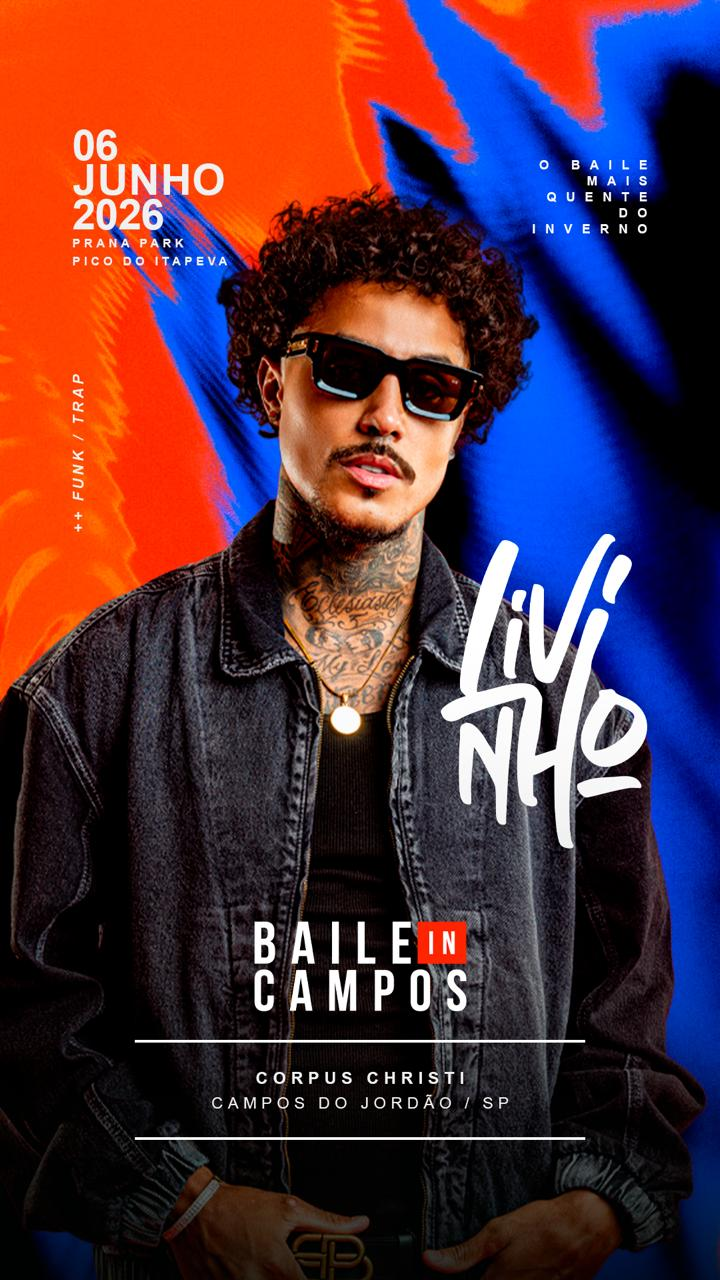
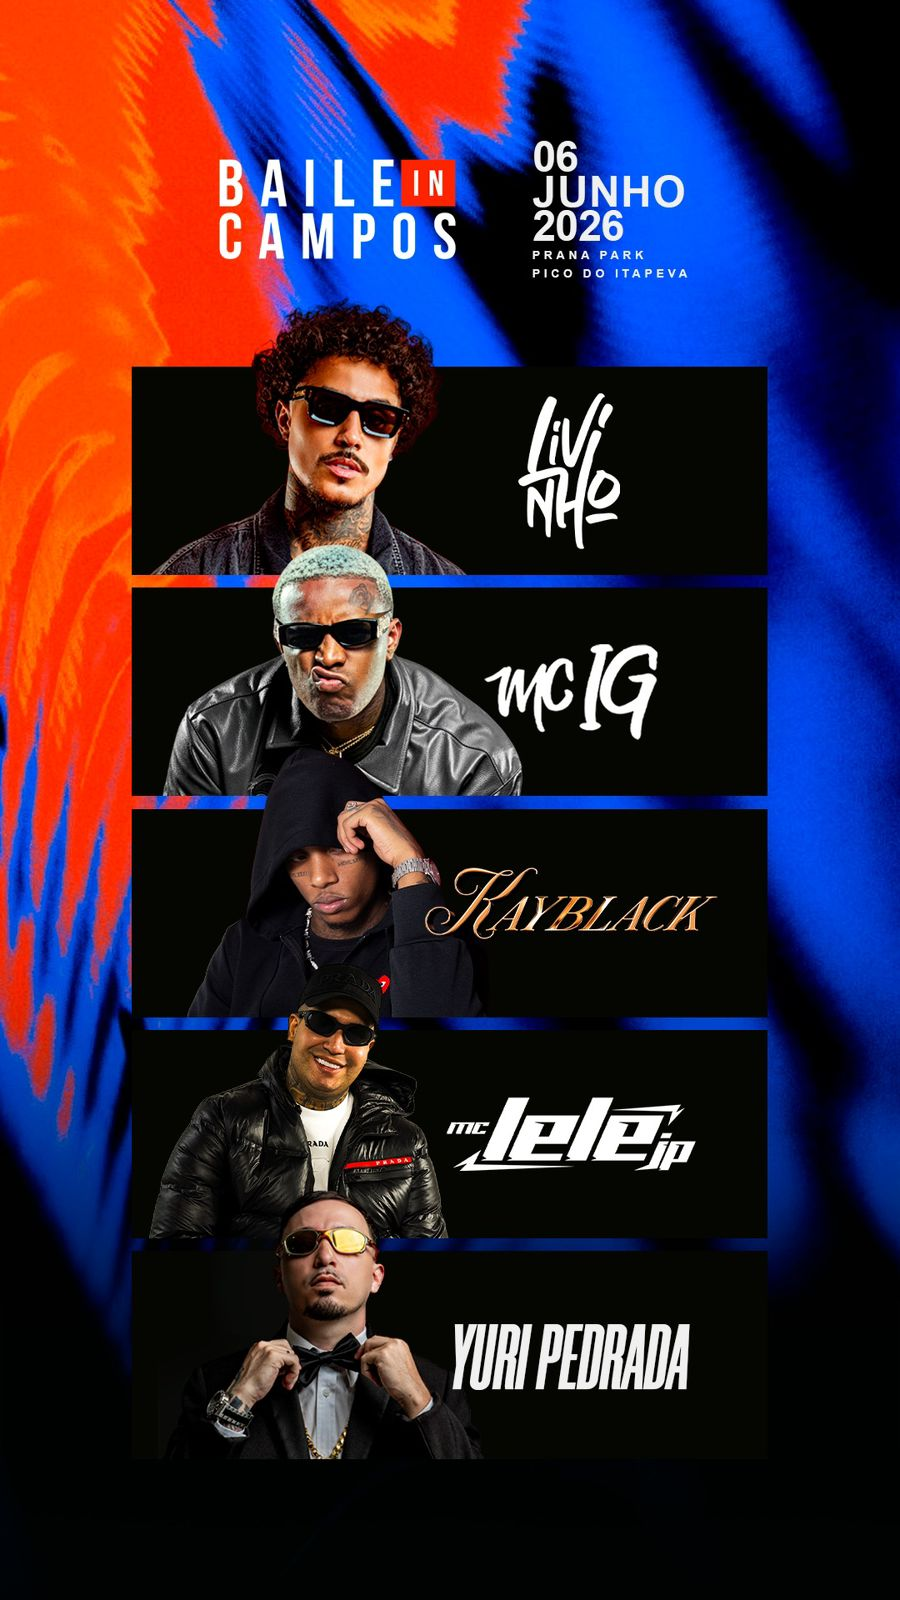
atualiazações festa CDJ

diff --git a/index.html b/index.html
@@ -50,7 +50,7 @@
   </div>
 </section>
 
-<!-- CARROSSEL FESTAS -->
+<!-- CARROSSEL FESTAS 
 <section class="eventos destaque-carrossel">
 
   <h2>🔥 FESTAS - LITORAL NORTE 🔥</h2>
@@ -97,6 +97,7 @@
 
   </div>
 </section>
+      -->
 
 <!-- CARROSSEL FERIADO CAMPOS -->
 <section class="eventos destaque-carrossel">
@@ -266,8 +267,8 @@
       <div class="card" onclick="toggleCard(this)">
         <img src="images/campos/festival1.png">
         <div class="info">
-          <p class="data">05.06.2026</p>
-          <h3>Beef Tour + Baile do Presidente</h3>
+          <p class="data">05.06.2026 | 06.06.2026</p>
+          <h3>Baile do Presidente</h3>
           <p class="local">Tennis Club</p>
         </div>
         <div class="acoes-card">
@@ -276,18 +277,7 @@
         </div>
     </div>
 
-    <div class="card" onclick="toggleCard(this)">
-        <img src="images/campos/festival2.png">
-        <div class="info">
-          <p class="data">06.06.2026</p>
-          <h3>Me Leva Festival</h3>
-          <p class="local">Tennis Club</p>
-        </div>
-        <div class="acoes-card">
-        <a href="https://www.bilheteriadigital.com/campos-do-jordao-winter-2026?c=146059" target="_blank" class="btn-card ingresso">Comprar agora</a>
-        <a href="https://wa.me/5513991603553?text=Olá%20Igor,%20quero%20Winter%20Festival%20no%20Pix." target="_blank" class="btn-card pix">Comprar via Pix</a>
-        </div>
-    </div>
+
 
     <div class="card" onclick="toggleCard(this)">
         <img src="images/campos/mason.jpeg">
